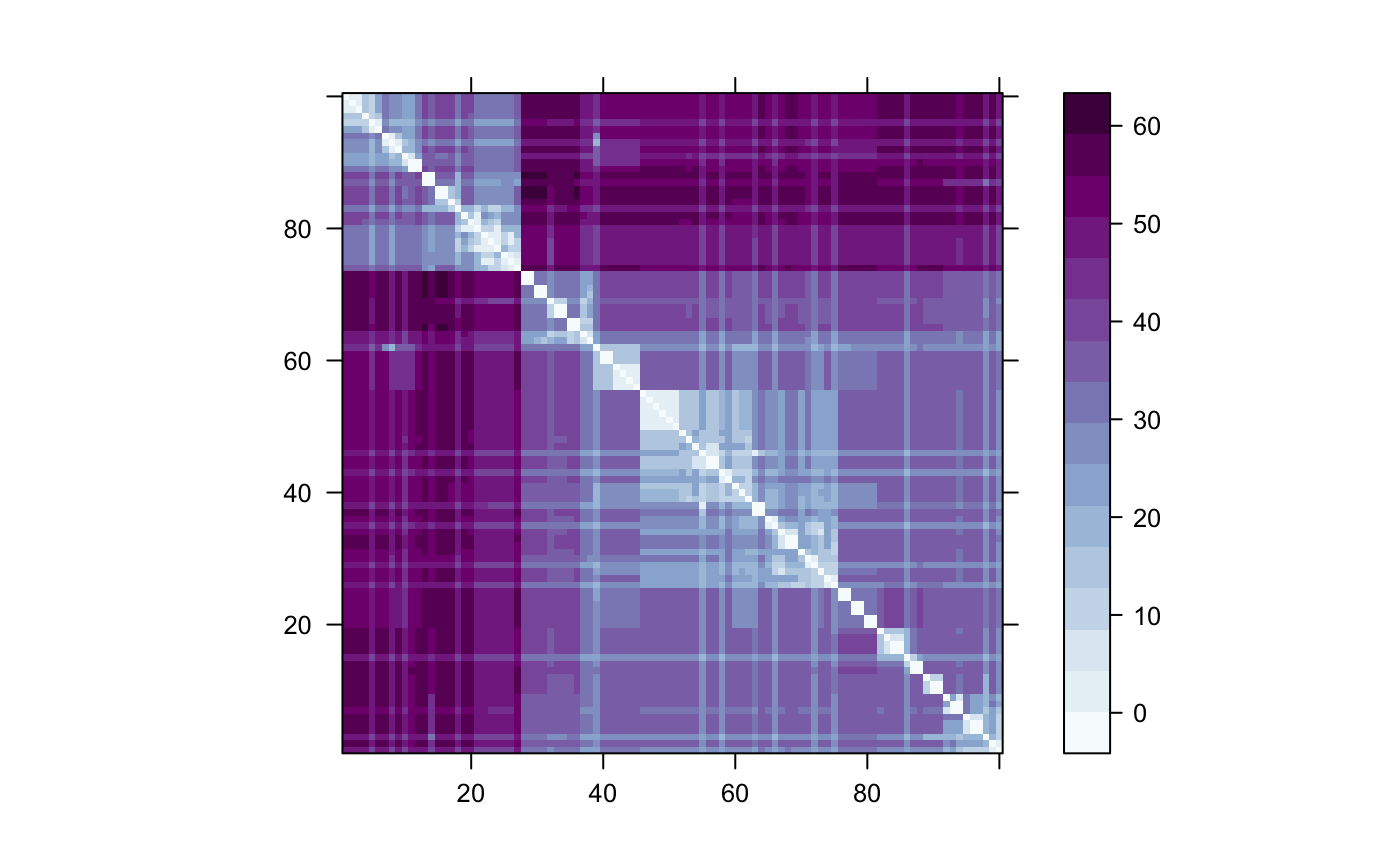
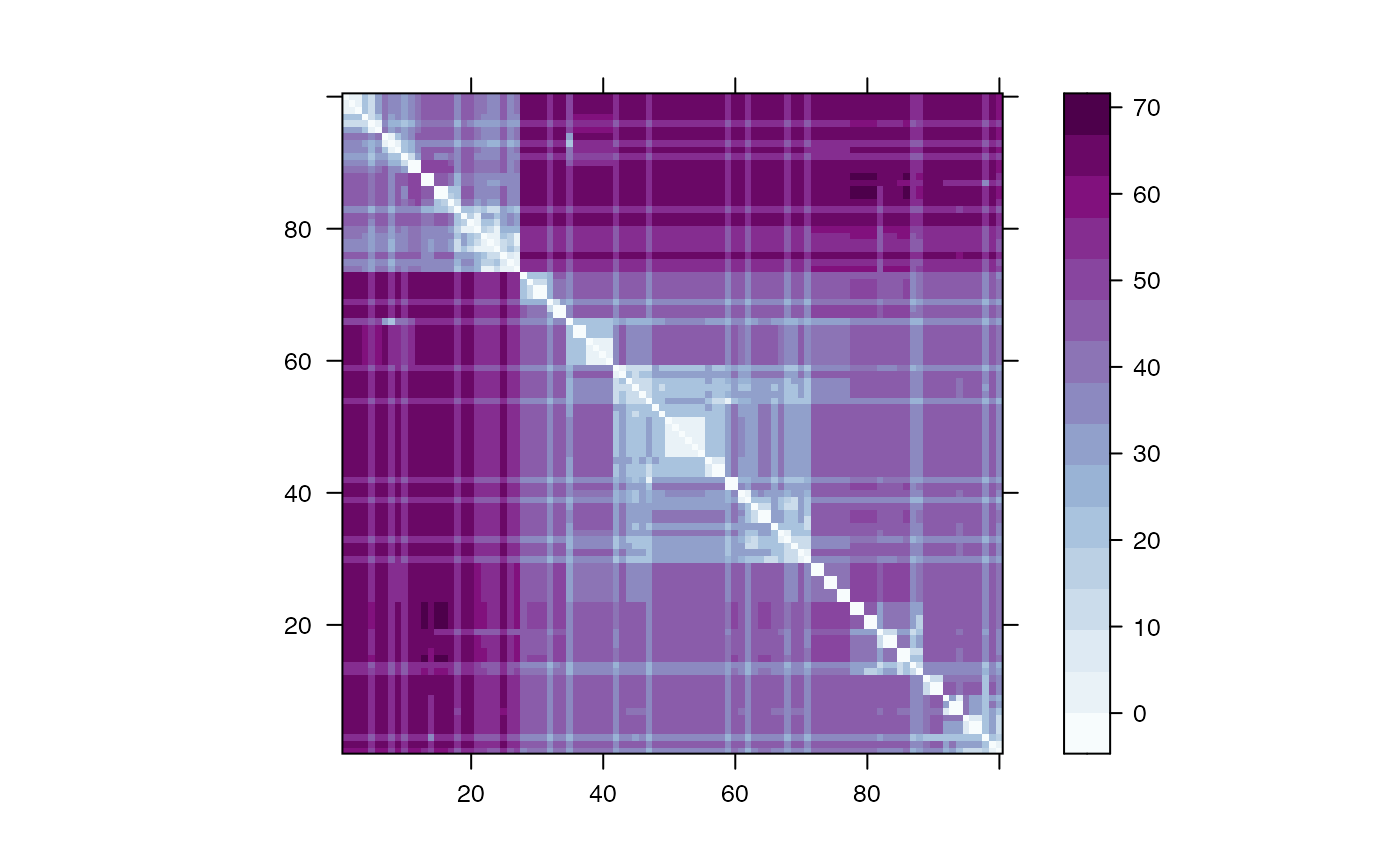
pkgdown vignette compile

diff --git a/docs/articles/Decoding_a_Single_Locus.html b/docs/articles/Decoding_a_Single_Locus.html
@@ -115,18 +115,24 @@
 
 <span class="fu"><a href="../reference/Forward.html">Forward</a></span><span class="op">(</span><span class="va">fwd</span>, <span class="va">pars</span>, <span class="fl">250</span><span class="op">)</span>
 <span class="fu"><a href="../reference/Backward.html">Backward</a></span><span class="op">(</span><span class="va">bck</span>, <span class="va">pars</span>, <span class="fl">250</span><span class="op">)</span></code></pre></div>
-<p>Now that  and  are at the same locus, they can be combined to obtain <span class="math inline">\(p^\ell\)</span> or <span class="math inline">\(d^\ell\)</span> as follows.</p>
+<p>Now that  and  are at the same locus, they can be combined to obtain the posterior marginal copying probabilities, <span class="math inline">\(p^\ell\)</span>, or a matrix of distances based on the negative log of those copying probabilities, <span class="math inline">\(d^\ell\)</span>, as follows.</p>
 <div class="sourceCode" id="cb5"><pre class="downlit sourceCode r">
 <code class="sourceCode R">
-<span class="co">#p &lt;- PostProbs(fwd,bck)</span>
-<span class="co">#M &lt;- DistMat(fwd,bck)</span></code></pre></div>
+<span class="va">p</span> <span class="op">&lt;-</span> <span class="fu"><a href="../reference/PostProbs.html">PostProbs</a></span><span class="op">(</span><span class="va">fwd</span>,<span class="va">bck</span><span class="op">)</span>
+<span class="va">d</span> <span class="op">&lt;-</span> <span class="fu"><a href="../reference/DistMat.html">DistMat</a></span><span class="op">(</span><span class="va">fwd</span>,<span class="va">bck</span><span class="op">)</span></code></pre></div>
 <p>The distance matrix can be easily clustered and visualized just by calling</p>
 <div class="sourceCode" id="cb6"><pre class="downlit sourceCode r">
-<code class="sourceCode R"><span class="co">#plot(M)</span></code></pre></div>
+<code class="sourceCode R"><span class="fu"><a href="https://rdrr.io/r/graphics/plot.default.html">plot</a></span><span class="op">(</span><span class="va">d</span><span class="op">)</span>
+<span class="co">#&gt; Warning in levelplot.formula(form, data, aspect = aspect, xlim = xlim, ylim =</span>
+<span class="co">#&gt; ylim, : device support for raster images unknown, ignoring 'raster=TRUE'</span></code></pre></div>
+<p><img src="Decoding_a_Single_Locus_files/figure-html/unnamed-chunk-6-1.png" width="700"></p>
 <p>In some applications, one might want to symmetrize the matrix before plotting as follows.</p>
 <div class="sourceCode" id="cb7"><pre class="downlit sourceCode r">
-<code class="sourceCode R"><span class="co">#M &lt;- 0.5*(M + t(M))</span>
-<span class="co">#plot(M)</span></code></pre></div>
+<code class="sourceCode R"><span class="va">d</span> <span class="op">&lt;-</span> <span class="fl">0.5</span><span class="op">*</span><span class="op">(</span><span class="va">d</span> <span class="op">+</span> <span class="fu"><a href="https://rdrr.io/r/base/t.html">t</a></span><span class="op">(</span><span class="va">d</span><span class="op">)</span><span class="op">)</span>
+<span class="fu"><a href="https://rdrr.io/r/graphics/plot.default.html">plot</a></span><span class="op">(</span><span class="va">d</span><span class="op">)</span>
+<span class="co">#&gt; Warning in levelplot.formula(form, data, aspect = aspect, xlim = xlim, ylim =</span>
+<span class="co">#&gt; ylim, : device support for raster images unknown, ignoring 'raster=TRUE'</span></code></pre></div>
+<p><img src="Decoding_a_Single_Locus_files/figure-html/unnamed-chunk-7-1.png" width="700"></p>
   </div>
 
   <div class="col-md-3 hidden-xs hidden-sm" id="pkgdown-sidebar">
